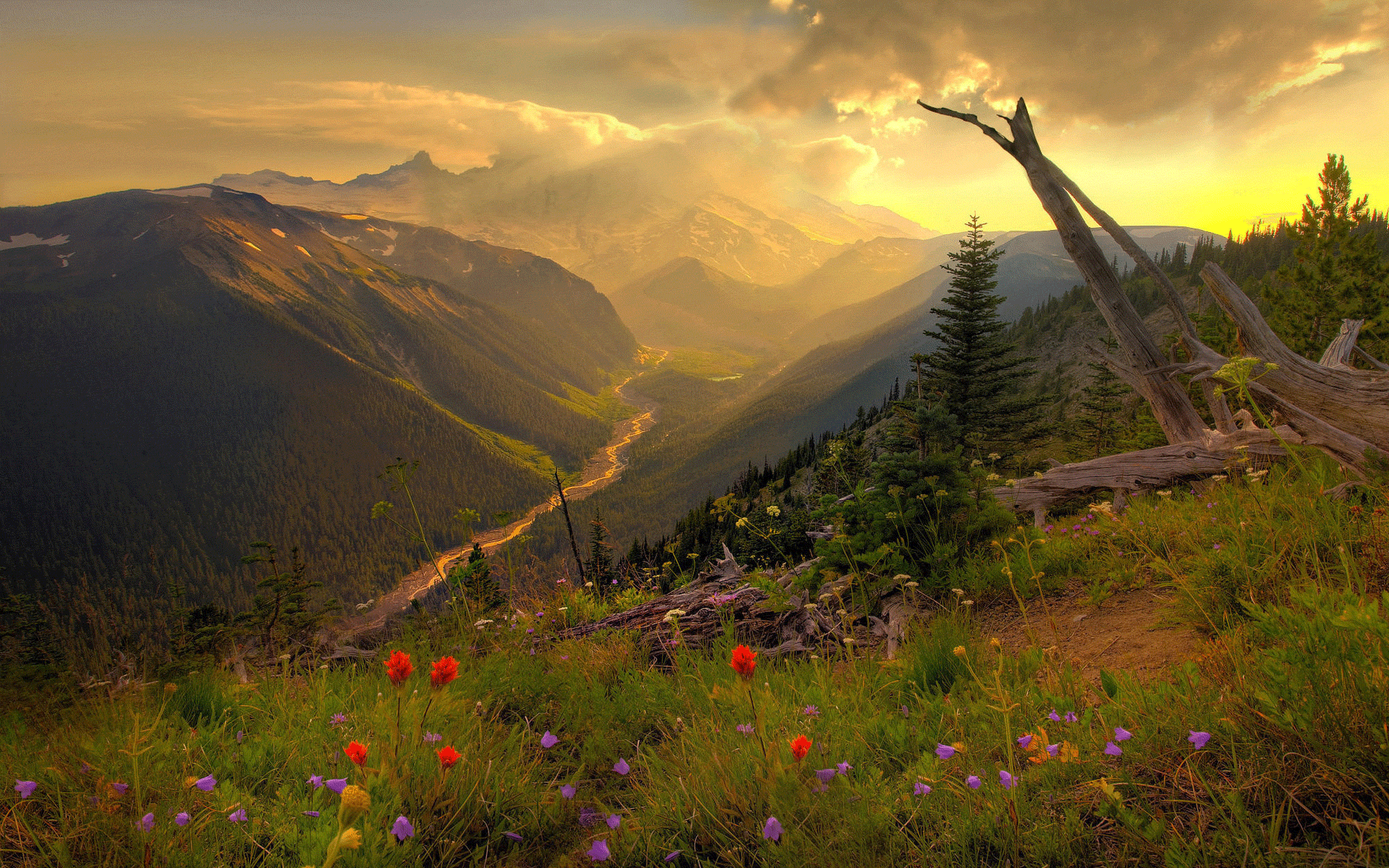
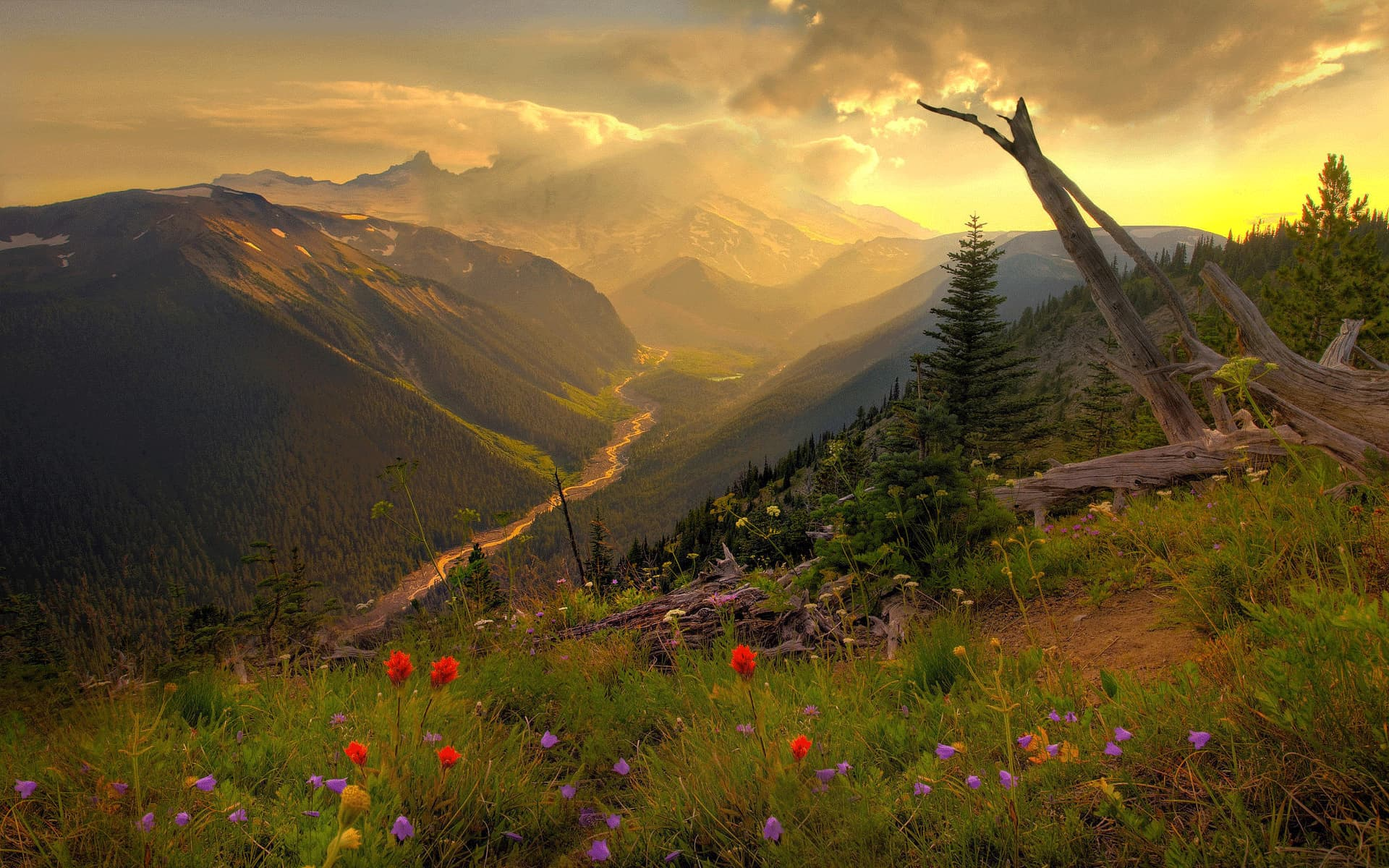
waxom
waxom

diff --git a/Waxom/index.html b/Waxom/index.html
@@ -6,7 +6,7 @@
 	<meta name="viewport" content="width=device-width, initial-scale=1.0">
 	<title>Waxom</title>
   <!-- СКРИПТЫ -->
-	<script type="text/javascript" src="js/jquery-3.4.1.min.js"></script>
+  <script type="text/javascript" src="js/jquery-3.4.1.min.js"></script>
   <script src="https://kit.fontawesome.com/0f50a82545.js"></script>
   <script src="https://cdn.jsdelivr.net/npm/siema@1.5.1/dist/siema.min.js" integrity="sha256-o/z6kPkEdOiAuBTgTdUaFN/F+srDaF3EbsJbkeAboXk=" crossorigin="anonymous"></script>
   <script src="js/wow.js"></script>
@@ -177,9 +177,9 @@
 					<p>Investigationes demonstraverunt lectores legere me lius quod ii legunt saepius. Claritas est etiam<br/> processus dynamicus, qui sequitur mutationem consuetudium.</p>
 				</div>
 				<div class="idean">
-					<img class="bounceInLeft wow" data-wow-delay="1.0s" src="img/browser-left.png" alt="">
-          			<img class="fadeInUp wow" data-wow-delay="1.3s" src="img/browser-center.png" alt="">
-          			<img class="bounceInRight wow" data-wow-delay="0.7s" src="img/browser-right.png" alt="">
+					<img class="bounceInLeft wow" data-wow-delay="1.0s" src="img/browser-left.jpg" alt="ide">
+          			<img class="fadeInUp wow" data-wow-delay="1.3s" src="img/browser-center.jpg" alt="ide">
+          			<img class="bounceInRight wow" data-wow-delay="0.7s" src="img/browser-right.jpg" alt="ide">
 				</div>
 			</div>
 		</div>

diff --git a/Waxom/css/style.css b/Waxom/css/style.css
@@ -338,7 +338,7 @@ body{
     }
 
     .slider__item_1 {
-      background: url(../img/bg1.png) no-repeat center top / cover;
+      background: url(../img/bg1.jpg) no-repeat center top / cover;
       
     }
 
@@ -729,7 +729,7 @@ button:hover, .focused{
   transition: all 0.5s;
 }
 .war:first-child > .filter-img { 
-  background: url(../img/photo1.png) no-repeat center top / cover;
+  background: url(../img/photo1.jpg) no-repeat center top / cover;
 }
 .war:nth-child(2) > .filter-img{
   background: url(../img/photo2.png) no-repeat center top / cover;
@@ -1182,7 +1182,7 @@ transition: all 0.5s ease;
 /*КОНТЭНТ С КОМПАНИЯМИ*/
 .company_contant{
   margin:165px 0 0 0;
-  background: url(../img/main-page-partners-bg.jpg) no-repeat center top / cover;
+  background: url(../img/mainpagebg.jpg) no-repeat center top / cover;
   padding-top: 140px;
   background-attachment: fixed;
   background-position: 50% 0%;
